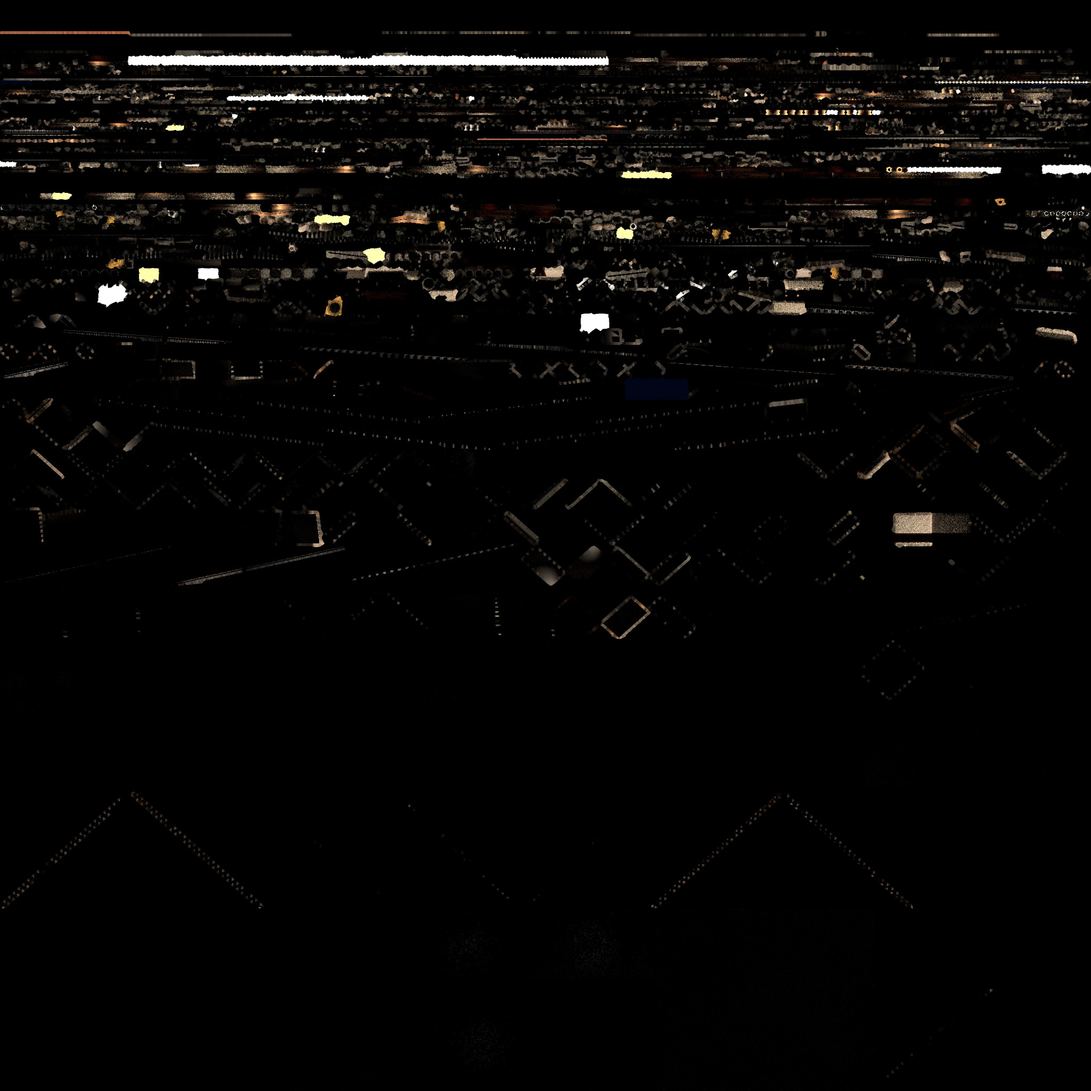
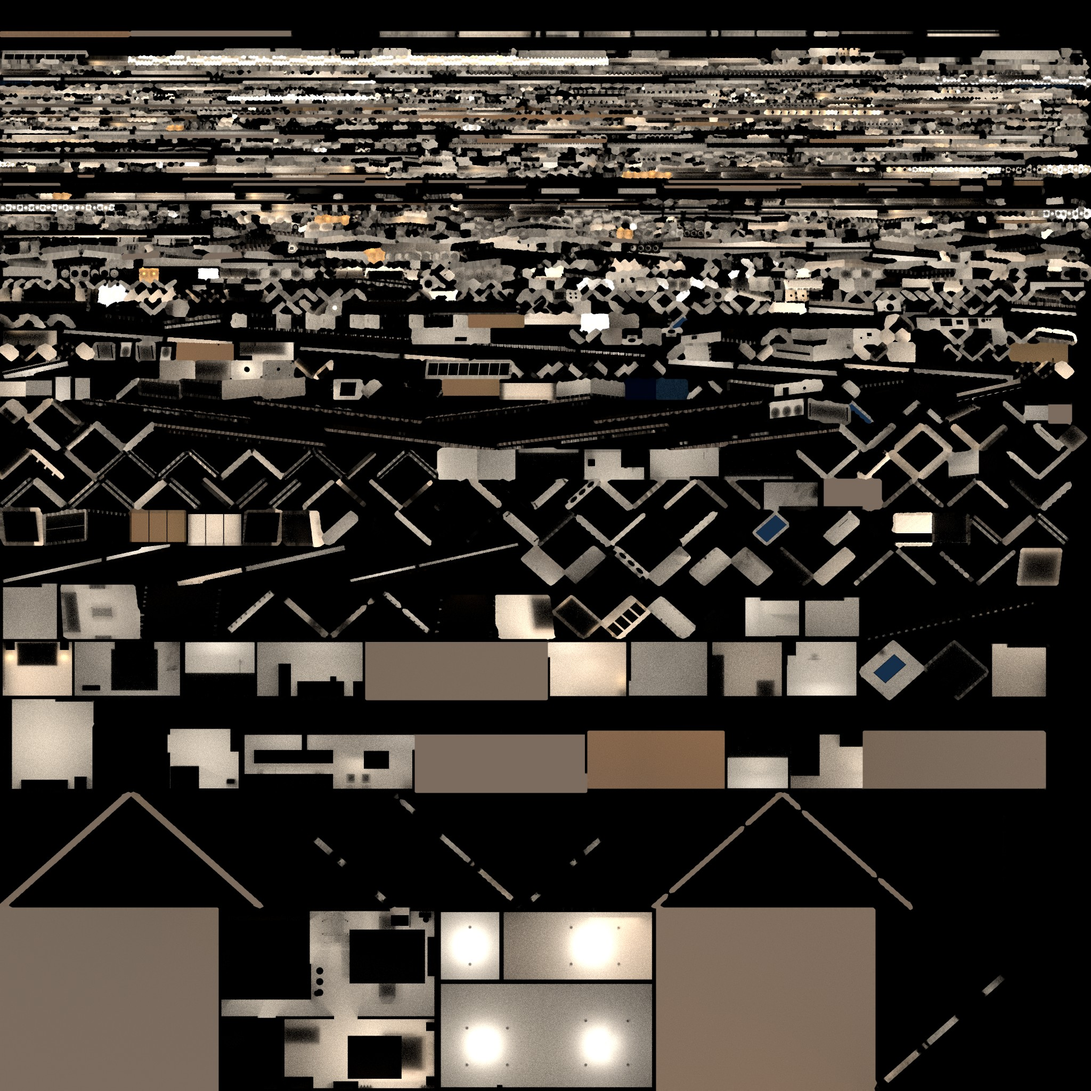
Family suite: working light bake from the new PC, light picture orientation fixed (work in progress, not live)
Claude-Session: https://claude.ai/code/session_01Kbwkq1xDEoZ5AyTLV8rRhy

diff --git a/src/game.js b/src/game.js
@@ -5149,7 +5149,7 @@ function buildSimsRoom(name,g){
   // lights from the Blender lamps (watts turned into game light)
   const lights=[]; for(const [k,m] of Object.entries(MK)){ if(!/^light_/.test(k)) continue; const L=new THREE.PointLight(new THREE.Color(m.color||'#ffe0b0'),Math.min(40,(m.power||60)*(m.kind==='AREA'?.11:.3)),m.kind==='AREA'?11:6,1.7); L.position.set(m.x,m.y-.15,m.z); S.add(L); lights.push(L); }
   const lmUrl=`assets/models/${name}_lm.jpg`;
-  if(MANIFEST[lmUrl]){ const room=root.getObjectByName('ROOM'); new THREE.TextureLoader().load(lmUrl+'?v='+(AV[lmUrl]||MANIFEST[lmUrl]),t=>{ t.flipY=true; t.channel=1; t.colorSpace=THREE.SRGBColorSpace; t.anisotropy=Math.min(4,maxAniso);
+  if(MANIFEST[lmUrl]){ const room=root.getObjectByName('ROOM'); new THREE.TextureLoader().load(lmUrl+'?v='+(AV[lmUrl]||MANIFEST[lmUrl]),t=>{ t.flipY=false; t.channel=1; t.colorSpace=THREE.SRGBColorSpace; t.anisotropy=Math.min(4,maxAniso);
       root.traverse(o=>{ if(!o.isMesh||/^VIEW_/.test(o.name)||!o.geometry.attributes.uv1) return; o.material=[].concat(o.material).map(m=>{ const e=m.emissive&&m.emissiveIntensity>0&&(m.emissive.r+m.emissive.g+m.emissive.b)>.05;
         const b=new THREE.MeshBasicMaterial({map:m.map,color:e?m.emissive.clone().multiplyScalar(Math.min(1.6,m.emissiveIntensity)):m.color,lightMap:e?null:t,lightMapIntensity:LM_K,transparent:m.transparent,opacity:m.opacity,depthWrite:m.depthWrite,side:THREE.DoubleSide});
         b.userData.std=m; return b; }); if(o.material.length===1) o.material=o.material[0]; o.castShadow=false; o.receiveShadow=false; });
